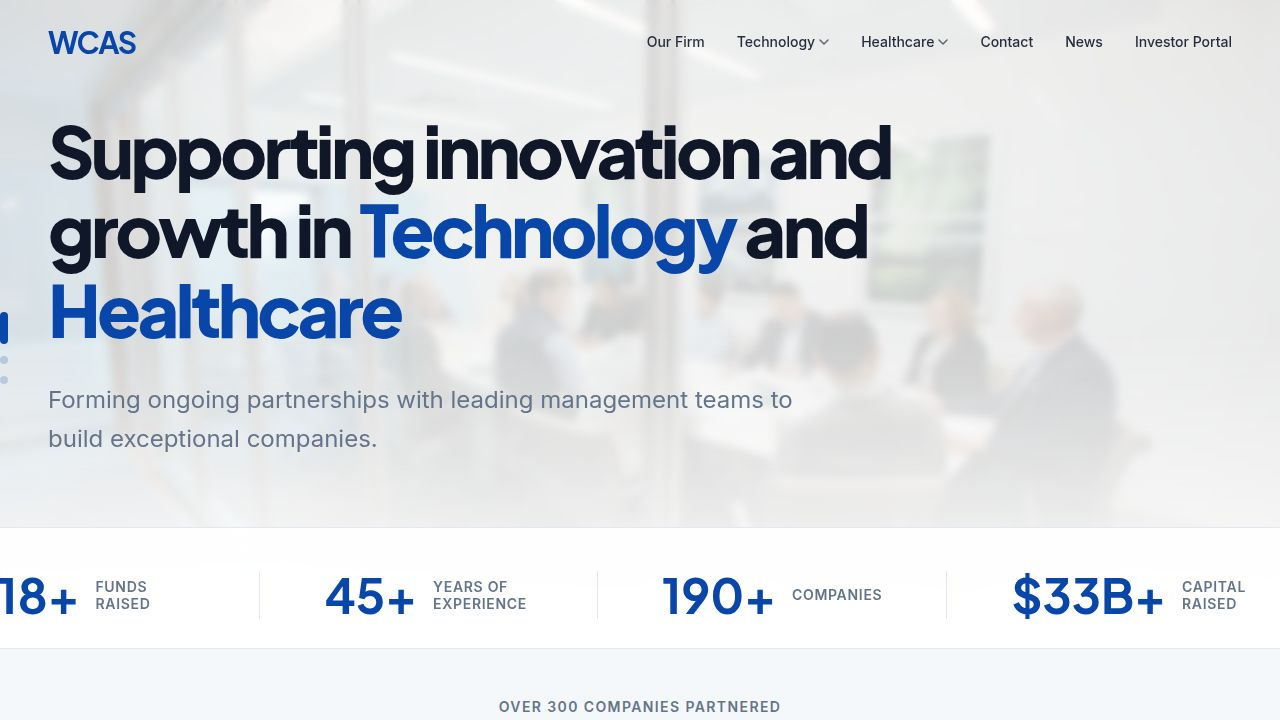
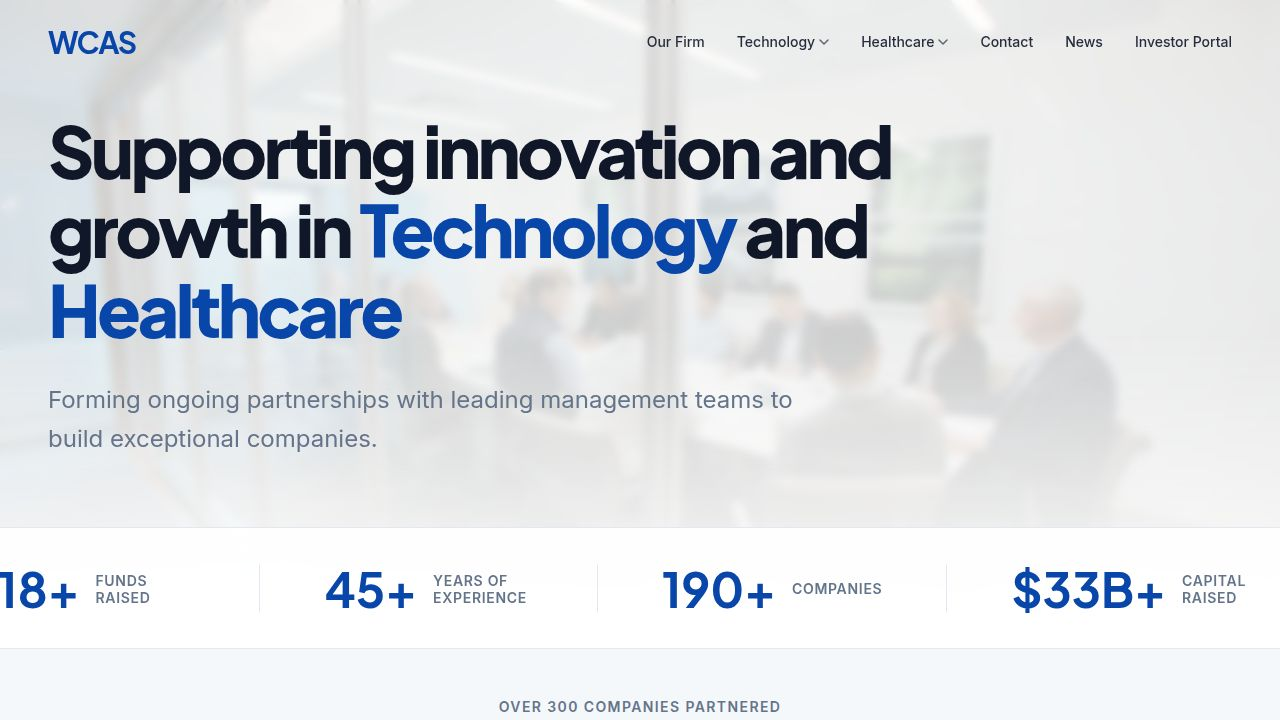
Replace hero image slider with static text content
Removed the carousel component and implemented static display of the first hero slide's title and description in Home.tsx.

Replit-Commit-Author: Agent
Replit-Commit-Session-Id: 1946200e-5dd1-48e7-bc13-41e3c93ccf3a
Replit-Commit-Checkpoint-Type: full_checkpoint
Replit-Commit-Event-Id: a81e662e-9a50-4df8-a642-729ee73fe940
Replit-Commit-Screenshot-Url: https://storage.googleapis.com/screenshot-production-us-central1/07950341-7b77-4f47-849a-da712c7550fe/1946200e-5dd1-48e7-bc13-41e3c93ccf3a/oP0eJFD
Replit-Helium-Checkpoint-Created: true

diff --git a/client/src/pages/Home.tsx b/client/src/pages/Home.tsx
@@ -109,55 +109,18 @@ export default function Home() {
         <div className="container mx-auto px-6 md:px-12 relative z-10">
           <div className="max-w-5xl relative">
             
-            {/* Carousel Content */}
-            <div className="grid pb-32 md:pb-32 lg:pb-40 xl:pb-32">
-              {heroSlides.map((slide, index) => (
-                <div 
-                  key={index}
-                  className={`[grid-area:1/1] flex flex-col justify-center transition-all duration-700 ease-in-out ${
-                    index === currentSlide 
-                      ? "opacity-100 translate-y-0 pointer-events-auto z-10" 
-                      : "opacity-0 translate-y-8 pointer-events-none z-0"
-                  }`}
-                >
-                  <h1 className="text-4xl md:text-5xl lg:text-5xl xl:text-7xl font-heading font-extrabold text-foreground leading-[1.1] tracking-tighter mb-6 md:mb-8">
-                    {slide.title}
-                  </h1>
-                  <p className="text-lg md:text-xl xl:text-2xl text-muted-foreground max-w-3xl leading-relaxed">
-                    {slide.description}
-                  </p>
-                </div>
-              ))}
+            {/* Hero Content */}
+            <div className="pb-32 md:pb-32 lg:pb-40 xl:pb-32">
+              <div className="flex flex-col justify-center">
+                <h1 className="text-4xl md:text-5xl lg:text-5xl xl:text-7xl font-heading font-extrabold text-foreground leading-[1.1] tracking-tighter mb-6 md:mb-8">
+                  {heroSlides[0].title}
+                </h1>
+                <p className="text-lg md:text-xl xl:text-2xl text-muted-foreground max-w-3xl leading-relaxed">
+                  {heroSlides[0].description}
+                </p>
+              </div>
             </div>
             
-            {/* Carousel Indicators */}
-            <div className="absolute -left-12 top-1/2 -translate-y-1/2 hidden lg:flex flex-col gap-3">
-              {heroSlides.map((_, index) => (
-                <button
-                  key={index}
-                  onClick={() => setCurrentSlide(index)}
-                  className={`w-2 rounded-full transition-all duration-300 ${
-                    index === currentSlide ? "h-8 bg-primary" : "h-2 bg-primary/20 hover:bg-primary/50"
-                  }`}
-                  aria-label={`Go to slide ${index + 1}`}
-                />
-              ))}
-            </div>
-            
-            {/* Mobile Indicators */}
-            <div className="mt-12 flex gap-3 lg:hidden">
-              {heroSlides.map((_, index) => (
-                <button
-                  key={index}
-                  onClick={() => setCurrentSlide(index)}
-                  className={`h-2 rounded-full transition-all duration-300 ${
-                    index === currentSlide ? "w-8 bg-primary" : "w-2 bg-primary/20"
-                  }`}
-                  aria-label={`Go to slide ${index + 1}`}
-                />
-              ))}
-            </div>
-
           </div>
         </div>
 